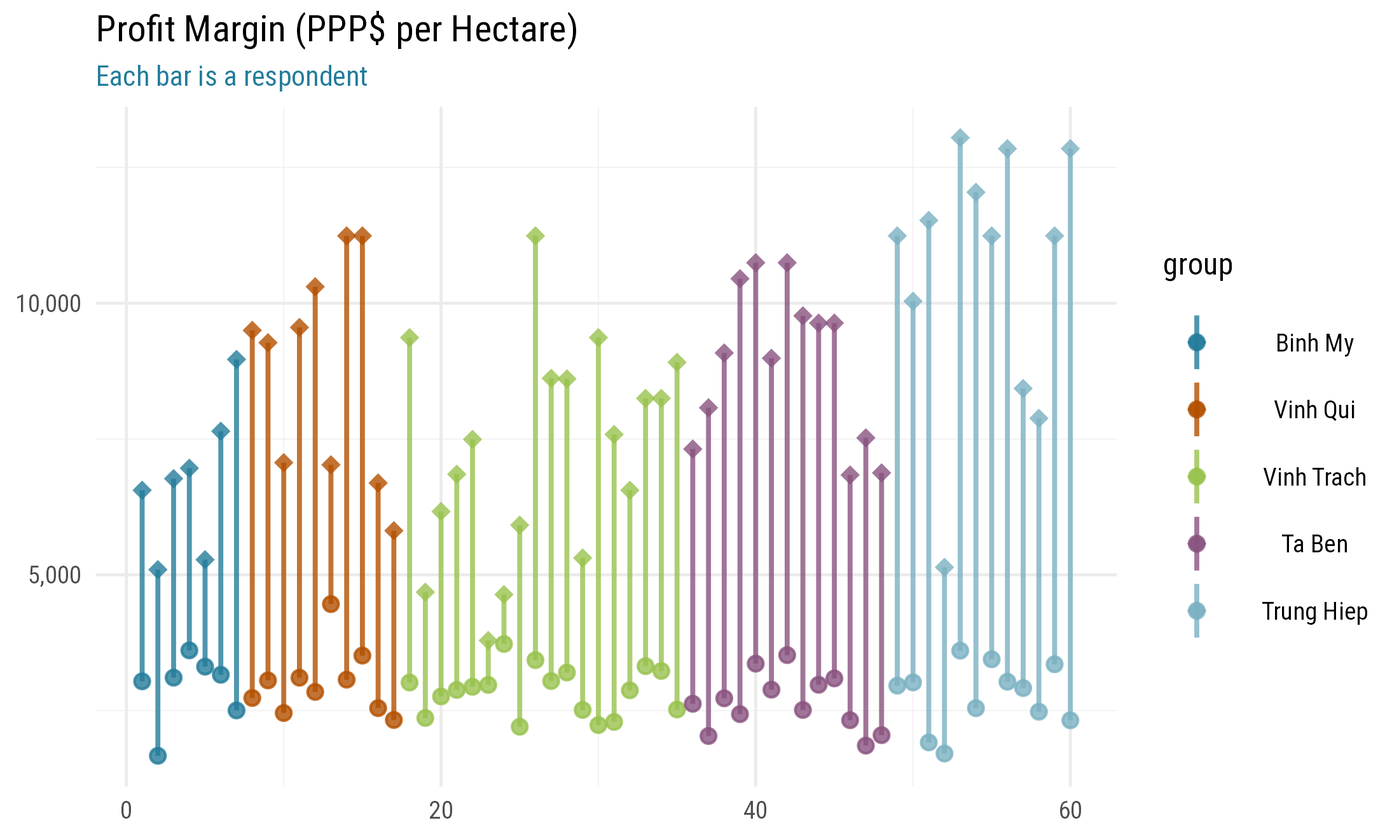
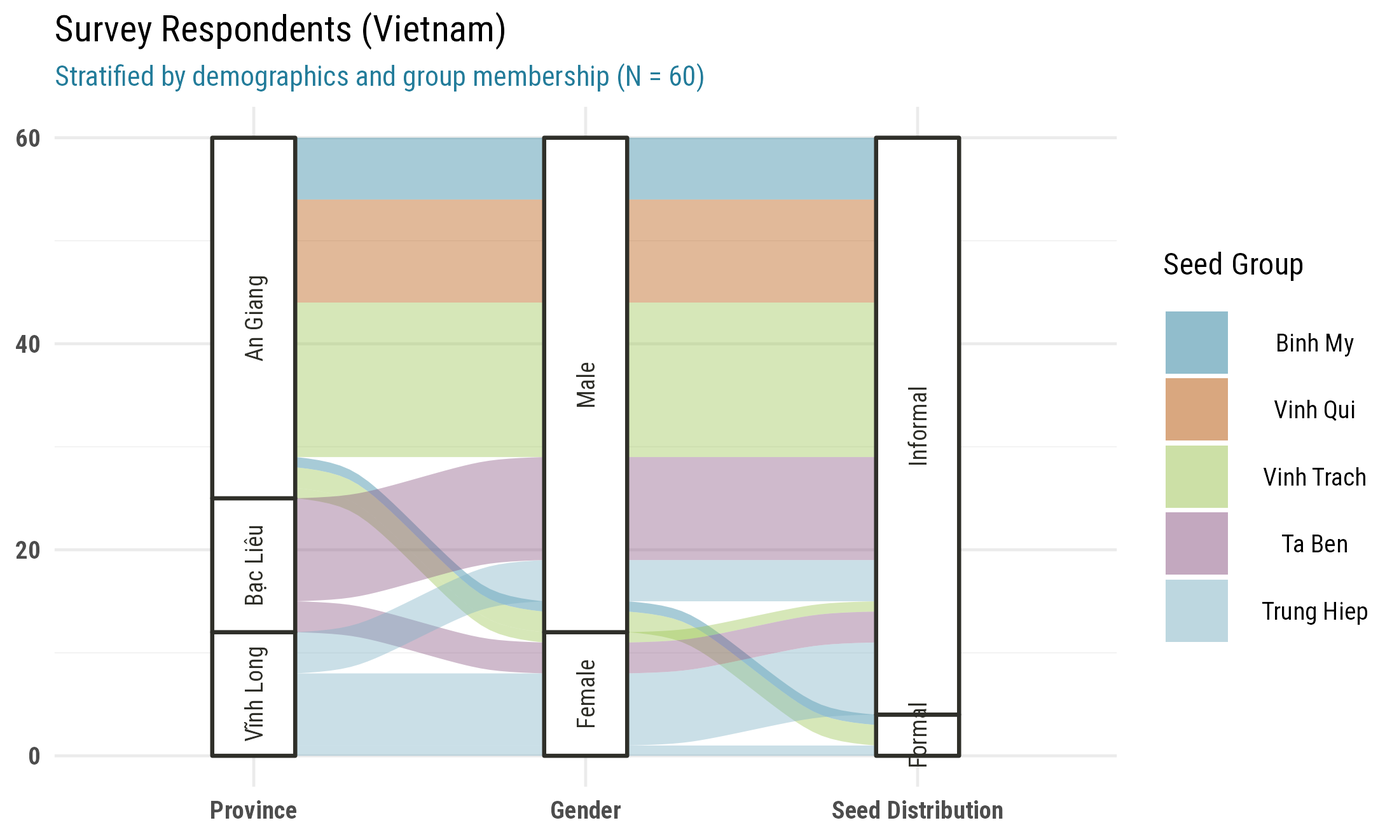
ftable

diff --git a/docs/01.html b/docs/01.html
@@ -618,7 +618,7 @@ TRUE
 </tr>
 <tr>
 <td style="text-align:left;">
-ssd_formal
+ssd
 </td>
 <td style="text-align:left;">
 Farmer participates in formal seed system distribution
@@ -841,7 +841,7 @@ TRUE
 </table>
 <p>Recode variable names.</p>
 <div class="sourceCode" id="cb4"><pre class="sourceCode r"><code class="sourceCode r"><span id="cb4-1"><a href="01.html#cb4-1" aria-hidden="true" tabindex="-1"></a><span class="fu">setnames</span>(hh, lbl<span class="sc">$</span>label, lbl<span class="sc">$</span>code, <span class="at">skip_absent=</span>T)</span></code></pre></div>
-<p>Additional recodes for categorical variables. Note that we create a categorical variable <code>ssd_formal</code> to indicate whether a farmer currently engages in formal seed system distribution.</p>
+<p>Additional recodes for categorical variables. Note that we create a categorical variable <code>ssd</code> to indicate whether a farmer currently engages in formal seed system distribution.</p>
 <div class="sourceCode" id="cb5"><pre class="sourceCode r"><code class="sourceCode r"><span id="cb5-1"><a href="01.html#cb5-1" aria-hidden="true" tabindex="-1"></a><span class="fu">setorder</span>(hh, adm1_nm, group, gender)</span>
 <span id="cb5-2"><a href="01.html#cb5-2" aria-hidden="true" tabindex="-1"></a></span>
 <span id="cb5-3"><a href="01.html#cb5-3" aria-hidden="true" tabindex="-1"></a>hh[, <span class="st">`</span><span class="at">:=</span><span class="st">`</span>(</span>
@@ -850,13 +850,13 @@ TRUE
 <span id="cb5-6"><a href="01.html#cb5-6" aria-hidden="true" tabindex="-1"></a>  <span class="at">adm1_nm =</span> <span class="fu">factor</span>(adm1_nm),</span>
 <span id="cb5-7"><a href="01.html#cb5-7" aria-hidden="true" tabindex="-1"></a>  <span class="at">group =</span> <span class="fu">factor</span>(group, <span class="at">levels=</span>hh[, <span class="fu">unique</span>(group)]),</span>
 <span id="cb5-8"><a href="01.html#cb5-8" aria-hidden="true" tabindex="-1"></a>  <span class="at">gender =</span> <span class="fu">factor</span>(gender, <span class="at">labels=</span><span class="fu">c</span>(<span class="at">Nam=</span><span class="st">&quot;Male&quot;</span>, Nữ<span class="ot">=</span><span class="st">&quot;Female&quot;</span>)),</span>
-<span id="cb5-9"><a href="01.html#cb5-9" aria-hidden="true" tabindex="-1"></a>  <span class="at">ssd_formal =</span> <span class="fu">factor</span>(cert_lcu <span class="sc">&gt;</span> <span class="dv">0</span>, <span class="at">labels=</span><span class="fu">c</span>(<span class="st">&quot;Informal&quot;</span>, <span class="st">&quot;Formal&quot;</span>))</span>
+<span id="cb5-9"><a href="01.html#cb5-9" aria-hidden="true" tabindex="-1"></a>  <span class="at">ssd =</span> <span class="fu">factor</span>(cert_lcu <span class="sc">&gt;</span> <span class="dv">0</span>, <span class="at">labels=</span><span class="fu">c</span>(<span class="st">&quot;Informal&quot;</span>, <span class="st">&quot;Formal&quot;</span>))</span>
 <span id="cb5-10"><a href="01.html#cb5-10" aria-hidden="true" tabindex="-1"></a>)]</span></code></pre></div>
 </div>
 <div id="data-enrichment" class="section level2">
 <h2>Data Enrichment</h2>
 <p>Below we append some of the information that was recorded at the group level.</p>
-<div class="sourceCode" id="cb6"><pre class="sourceCode r"><code class="sourceCode r"><span id="cb6-1"><a href="01.html#cb6-1" aria-hidden="true" tabindex="-1"></a><span class="fu">kbl</span>(group) <span class="sc">%&gt;%</span></span>
+<div class="sourceCode" id="cb6"><pre class="sourceCode r"><code class="sourceCode r"><span id="cb6-1"><a href="01.html#cb6-1" aria-hidden="true" tabindex="-1"></a><span class="fu">kbl</span>(group, <span class="at">align=</span><span class="st">&quot;lccccccc&quot;</span>) <span class="sc">%&gt;%</span></span>
 <span id="cb6-2"><a href="01.html#cb6-2" aria-hidden="true" tabindex="-1"></a>  <span class="fu">kable_def</span>()</span></code></pre></div>
 <table class="table table-condensed table-responsive table-striped table-hover" style="font-size: 14px; margin-left: auto; margin-right: auto;">
 <thead>
@@ -864,25 +864,25 @@ TRUE
 <th style="text-align:left;">
 Group
 </th>
-<th style="text-align:right;">
+<th style="text-align:center;">
 Established
 </th>
-<th style="text-align:right;">
+<th style="text-align:center;">
 Members
 </th>
-<th style="text-align:left;">
+<th style="text-align:center;">
 Soil
 </th>
-<th style="text-align:right;">
+<th style="text-align:center;">
 Seasons
 </th>
-<th style="text-align:left;">
+<th style="text-align:center;">
 Irrigation
 </th>
-<th style="text-align:left;">
+<th style="text-align:center;">
 Market access
 </th>
-<th style="text-align:left;">
+<th style="text-align:center;">
 Transboundary trade
 </th>
 </tr>
@@ -892,25 +892,25 @@ Transboundary trade
 <td style="text-align:left;">
 Ta Ben
 </td>
-<td style="text-align:right;">
+<td style="text-align:center;">
 2001
 </td>
-<td style="text-align:right;">
+<td style="text-align:center;">
 30
 </td>
-<td style="text-align:left;">
+<td style="text-align:center;">
 loamy
 </td>
-<td style="text-align:right;">
+<td style="text-align:center;">
 2.0
 </td>
-<td style="text-align:left;">
+<td style="text-align:center;">
 good
 </td>
-<td style="text-align:left;">
+<td style="text-align:center;">
 Vicinity to local market, good road to infrastructure
 </td>
-<td style="text-align:left;">
+<td style="text-align:center;">
 No
 </td>
 </tr>
@@ -918,25 +918,25 @@ No
 <td style="text-align:left;">
 Trung Hiep
 </td>
-<td style="text-align:right;">
+<td style="text-align:center;">
 2003
 </td>
-<td style="text-align:right;">
+<td style="text-align:center;">
 8
 </td>
-<td style="text-align:left;">
+<td style="text-align:center;">
 sandy-silty
 </td>
-<td style="text-align:right;">
+<td style="text-align:center;">
 2.5
 </td>
-<td style="text-align:left;">
+<td style="text-align:center;">
 good
 </td>
-<td style="text-align:left;">
+<td style="text-align:center;">
 Vicinity to local market, good road to infrastructure
 </td>
-<td style="text-align:left;">
+<td style="text-align:center;">
 No
 </td>
 </tr>
@@ -944,25 +944,25 @@ No
 <td style="text-align:left;">
 Vinh Trach
 </td>
-<td style="text-align:right;">
+<td style="text-align:center;">
 2004
 </td>
-<td style="text-align:right;">
+<td style="text-align:center;">
 15
 </td>
-<td style="text-align:left;">
+<td style="text-align:center;">
 clay
 </td>
-<td style="text-align:right;">
+<td style="text-align:center;">
 3.0
 </td>
-<td style="text-align:left;">
+<td style="text-align:center;">
 good
 </td>
-<td style="text-align:left;">
+<td style="text-align:center;">
 Vicinity to local market, good road to infrastructure
 </td>
-<td style="text-align:left;">
+<td style="text-align:center;">
 Yes
 </td>
 </tr>
@@ -970,25 +970,25 @@ Yes
 <td style="text-align:left;">
 Binh My
 </td>
-<td style="text-align:right;">
+<td style="text-align:center;">
 2004
 </td>
-<td style="text-align:right;">
+<td style="text-align:center;">
 8
 </td>
-<td style="text-align:left;">
+<td style="text-align:center;">
 clay
 </td>
-<td style="text-align:right;">
+<td style="text-align:center;">
 3.0
 </td>
-<td style="text-align:left;">
+<td style="text-align:center;">
 good
 </td>
-<td style="text-align:left;">
+<td style="text-align:center;">
 Vicinity to local market, good road to infrastructure
 </td>
-<td style="text-align:left;">
+<td style="text-align:center;">
 Yes
 </td>
 </tr>
@@ -996,25 +996,25 @@ Yes
 <td style="text-align:left;">
 Vinh Qui
 </td>
-<td style="text-align:right;">
+<td style="text-align:center;">
 2002
 </td>
-<td style="text-align:right;">
+<td style="text-align:center;">
 40
 </td>
-<td style="text-align:left;">
+<td style="text-align:center;">
 clay
 </td>
-<td style="text-align:right;">
+<td style="text-align:center;">
 3.0
 </td>
-<td style="text-align:left;">
+<td style="text-align:center;">
 good
 </td>
-<td style="text-align:left;">
+<td style="text-align:center;">
 Vicinity to local market, good road to infrastructure
 </td>
-<td style="text-align:left;">
+<td style="text-align:center;">
 Yes
 </td>
 </tr>
@@ -1065,8 +1065,8 @@ Yes
 <div class="sourceCode" id="cb10"><pre class="sourceCode r"><code class="sourceCode r"><span id="cb10-1"><a href="01.html#cb10-1" aria-hidden="true" tabindex="-1"></a>hh[, <span class="fu">summary</span>(sales_ha_lcu <span class="sc">-</span> (sales_kg_lcu <span class="sc">*</span> sales_ha_kg))]</span></code></pre></div>
 <pre><code>##    Min. 1st Qu.  Median    Mean 3rd Qu.    Max. 
 ##       0       0       0       0       0       0</code></pre>
-<p>Further we construct gross margin per ha <code>margin_ha_lcu</code>, total sales <code>sales_ha_sh</code> and profit margin <code>margin_ha_sh</code> as shares of total costs per hectare, and <code>costs_ha_ppp</code>, <code>sales_ha_ppp</code> and <code>margin_ha_ppp</code> in PPP terms to allow for comparisons across groups and countries.</p>
-<p>We also construct a measure of <strong>total factor productivity</strong> <code>tfp</code> as production over total costs per ha. Strictly speaking it is only “partial factor productivity” here because we don’t include the rental cost of land, land preparation costs, and the costs of animal and mechanical implements.</p>
+<p>Further we construct gross margin per ha <code>margin_ha_lcu</code>, total sales <code>sales_ha_sh</code> and profit margin <code>margin_ha_sh</code> per unit of (variable) input costs, and <code>costs_ha_ppp</code>, <code>sales_ha_ppp</code> and <code>margin_ha_ppp</code> in PPP terms to allow for comparisons across groups and countries.</p>
+<p>We also construct a measure of <strong>total factor productivity</strong> <code>tfp</code> as output per unit of input costs. Strictly speaking it is only “partial factor productivity” here because we don’t include the rental cost of land, land preparation costs, irrigation costs, and the costs of animal and mechanical implements.</p>
 <div class="sourceCode" id="cb12"><pre class="sourceCode r"><code class="sourceCode r"><span id="cb12-1"><a href="01.html#cb12-1" aria-hidden="true" tabindex="-1"></a>hh[, <span class="st">`</span><span class="at">:=</span><span class="st">`</span>(</span>
 <span id="cb12-2"><a href="01.html#cb12-2" aria-hidden="true" tabindex="-1"></a>  <span class="at">margin_ha_lcu =</span> sales_ha_lcu <span class="sc">-</span> costs_ha_lcu</span>
 <span id="cb12-3"><a href="01.html#cb12-3" aria-hidden="true" tabindex="-1"></a>)][, <span class="st">`</span><span class="at">:=</span><span class="st">`</span>(</span>
@@ -1098,26 +1098,49 @@ Yes
 <span id="cb13-17"><a href="01.html#cb13-17" aria-hidden="true" tabindex="-1"></a>  <span class="at">share =</span> lcu<span class="sc">/</span><span class="fu">sum</span>(lcu, <span class="at">na.rm=</span>T),</span>
 <span id="cb13-18"><a href="01.html#cb13-18" aria-hidden="true" tabindex="-1"></a>  <span class="at">ppp =</span> lcu<span class="sc">/</span>xrate</span>
 <span id="cb13-19"><a href="01.html#cb13-19" aria-hidden="true" tabindex="-1"></a>), by<span class="ot">=</span>hhid]</span></code></pre></div>
-<p>Note that in the current survey we are missing <strong>farm sizes</strong> (or planted acreage), so we can not directly study the effect of farm size on the per-unit costs of production and yields, or look at potential <strong>scale effects</strong> on <strong>efficiency</strong> and <strong>profitability</strong>. We can however study whether larger groups might have a positive effect on profits.</p>
+<p>Note that in the current survey we are missing <strong>farm sizes</strong> (or planted acreage), so we can not directly study the effect of farm size on the per-unit costs of production and yields, or look at potential <strong>scale effects</strong> on a farmer’s <strong>efficiency</strong> and <strong>profitability</strong>. We can however study whether larger groups might have positive effects.</p>
 </div>
 </div>
 <div id="descriptive-statistics" class="section level2">
 <h2>Descriptive Statistics</h2>
 <div id="respondent-characteristics" class="section level3">
 <h3>Respondent Characteristics</h3>
-<div class="sourceCode" id="cb14"><pre class="sourceCode r"><code class="sourceCode r"><span id="cb14-1"><a href="01.html#cb14-1" aria-hidden="true" tabindex="-1"></a><span class="fu">library</span>(ggalluvial)</span>
-<span id="cb14-2"><a href="01.html#cb14-2" aria-hidden="true" tabindex="-1"></a><span class="fu">ggplot</span>(</span>
-<span id="cb14-3"><a href="01.html#cb14-3" aria-hidden="true" tabindex="-1"></a>  hh[, .N, <span class="at">by=</span>.(adm1_nm, group, ssd_formal, gender)],</span>
-<span id="cb14-4"><a href="01.html#cb14-4" aria-hidden="true" tabindex="-1"></a>  <span class="fu">aes</span>(<span class="at">axis1=</span>adm1_nm, <span class="at">axis2=</span>gender, <span class="at">axis3=</span>ssd_formal, <span class="at">y=</span>N)) <span class="sc">+</span></span>
-<span id="cb14-5"><a href="01.html#cb14-5" aria-hidden="true" tabindex="-1"></a>  <span class="fu">geom_alluvium</span>(<span class="fu">aes</span>(<span class="at">fill=</span>group), <span class="at">width=</span><span class="dv">1</span><span class="sc">/</span><span class="dv">4</span>) <span class="sc">+</span></span>
-<span id="cb14-6"><a href="01.html#cb14-6" aria-hidden="true" tabindex="-1"></a>  <span class="fu">geom_stratum</span>(<span class="at">width=</span><span class="dv">1</span><span class="sc">/</span><span class="dv">4</span>) <span class="sc">+</span></span>
-<span id="cb14-7"><a href="01.html#cb14-7" aria-hidden="true" tabindex="-1"></a>  <span class="fu">geom_text</span>(<span class="at">stat=</span><span class="st">&quot;stratum&quot;</span>, <span class="fu">aes</span>(<span class="at">label=</span><span class="fu">after_stat</span>(stratum)), <span class="at">angle=</span><span class="dv">90</span>, <span class="at">size=</span><span class="fl">2.2</span>) <span class="sc">+</span></span>
-<span id="cb14-8"><a href="01.html#cb14-8" aria-hidden="true" tabindex="-1"></a>  <span class="fu">scale_x_discrete</span>(<span class="at">limits=</span><span class="fu">c</span>(<span class="st">&quot;Province&quot;</span>, <span class="st">&quot;Gender&quot;</span>, <span class="st">&quot;Seed Distribution&quot;</span>), <span class="at">expand=</span><span class="fu">c</span>(.<span class="dv">2</span>, .<span class="dv">05</span>)) <span class="sc">+</span></span>
-<span id="cb14-9"><a href="01.html#cb14-9" aria-hidden="true" tabindex="-1"></a>  <span class="fu">labs</span>(<span class="at">y=</span><span class="cn">NULL</span>, <span class="at">fill=</span><span class="st">&quot;Seed Group&quot;</span>,</span>
-<span id="cb14-10"><a href="01.html#cb14-10" aria-hidden="true" tabindex="-1"></a>    <span class="at">title =</span> <span class="st">&quot;Vietnam Survey Respondents&quot;</span>,</span>
-<span id="cb14-11"><a href="01.html#cb14-11" aria-hidden="true" tabindex="-1"></a>    <span class="at">sub =</span> <span class="st">&quot;Stratified by demographics and group membership&quot;</span>) <span class="sc">+</span></span>
-<span id="cb14-12"><a href="01.html#cb14-12" aria-hidden="true" tabindex="-1"></a>  <span class="fu">theme_def</span>(<span class="at">axis.text=</span><span class="fu">element_text</span>(<span class="at">face=</span><span class="st">&quot;bold&quot;</span>))</span></code></pre></div>
-<p><img src="fig/unnamed-chunk-10-1.png" width="1100" /></p>
+<div class="sourceCode" id="cb14"><pre class="sourceCode r"><code class="sourceCode r"><span id="cb14-1"><a href="01.html#cb14-1" aria-hidden="true" tabindex="-1"></a><span class="co"># Contingency table</span></span>
+<span id="cb14-2"><a href="01.html#cb14-2" aria-hidden="true" tabindex="-1"></a>tbl <span class="ot">&lt;-</span> hh[, .(<span class="at">Group=</span>group, <span class="at">Gender=</span>gender, <span class="st">`</span><span class="at">Seed System</span><span class="st">`</span><span class="ot">=</span>ssd)]</span>
+<span id="cb14-3"><a href="01.html#cb14-3" aria-hidden="true" tabindex="-1"></a><span class="fu">summary</span>(tbl)</span></code></pre></div>
+<pre><code>##         Group       Gender     Seed System
+##  Binh My   : 7   Male  :48   Informal:56  
+##  Vinh Qui  :10   Female:12   Formal  : 4  
+##  Vinh Trach:18                            
+##  Ta Ben    :13                            
+##  Trung Hiep:12</code></pre>
+<div class="sourceCode" id="cb16"><pre class="sourceCode r"><code class="sourceCode r"><span id="cb16-1"><a href="01.html#cb16-1" aria-hidden="true" tabindex="-1"></a>tbl <span class="ot">&lt;-</span> <span class="fu">xtabs</span>(<span class="sc">~</span>group<span class="sc">+</span>gender<span class="sc">+</span>ssd, hh)</span>
+<span id="cb16-2"><a href="01.html#cb16-2" aria-hidden="true" tabindex="-1"></a><span class="dv">100</span> <span class="sc">*</span> <span class="fu">ftable</span>(<span class="fu">prop.table</span>(tbl))</span></code></pre></div>
+<pre><code>##                   ssd  Informal    Formal
+## group      gender                        
+## Binh My    Male       10.000000  1.666667
+##            Female      0.000000  0.000000
+## Vinh Qui   Male       16.666667  0.000000
+##            Female      0.000000  0.000000
+## Vinh Trach Male       25.000000  3.333333
+##            Female      1.666667  0.000000
+## Ta Ben     Male       16.666667  0.000000
+##            Female      5.000000  0.000000
+## Trung Hiep Male        6.666667  0.000000
+##            Female     11.666667  1.666667</code></pre>
+<div class="sourceCode" id="cb18"><pre class="sourceCode r"><code class="sourceCode r"><span id="cb18-1"><a href="01.html#cb18-1" aria-hidden="true" tabindex="-1"></a><span class="fu">library</span>(ggalluvial)</span>
+<span id="cb18-2"><a href="01.html#cb18-2" aria-hidden="true" tabindex="-1"></a><span class="fu">ggplot</span>(</span>
+<span id="cb18-3"><a href="01.html#cb18-3" aria-hidden="true" tabindex="-1"></a>  hh[, .N, <span class="at">by=</span>.(adm1_nm, group, ssd, gender)],</span>
+<span id="cb18-4"><a href="01.html#cb18-4" aria-hidden="true" tabindex="-1"></a>  <span class="fu">aes</span>(<span class="at">axis1=</span>adm1_nm, <span class="at">axis2=</span>gender, <span class="at">axis3=</span>ssd, <span class="at">y=</span>N)) <span class="sc">+</span></span>
+<span id="cb18-5"><a href="01.html#cb18-5" aria-hidden="true" tabindex="-1"></a>  <span class="fu">geom_alluvium</span>(<span class="fu">aes</span>(<span class="at">fill=</span>group), <span class="at">width=</span><span class="dv">1</span><span class="sc">/</span><span class="dv">4</span>) <span class="sc">+</span></span>
+<span id="cb18-6"><a href="01.html#cb18-6" aria-hidden="true" tabindex="-1"></a>  <span class="fu">geom_stratum</span>(<span class="at">width=</span><span class="dv">1</span><span class="sc">/</span><span class="dv">4</span>) <span class="sc">+</span></span>
+<span id="cb18-7"><a href="01.html#cb18-7" aria-hidden="true" tabindex="-1"></a>  <span class="fu">geom_text</span>(<span class="at">stat=</span><span class="st">&quot;stratum&quot;</span>, <span class="fu">aes</span>(<span class="at">label=</span><span class="fu">after_stat</span>(stratum)), <span class="at">angle=</span><span class="dv">90</span>, <span class="at">size=</span><span class="fl">2.2</span>) <span class="sc">+</span></span>
+<span id="cb18-8"><a href="01.html#cb18-8" aria-hidden="true" tabindex="-1"></a>  <span class="fu">scale_x_discrete</span>(<span class="at">limits=</span><span class="fu">c</span>(<span class="st">&quot;Province&quot;</span>, <span class="st">&quot;Gender&quot;</span>, <span class="st">&quot;Seed Distribution&quot;</span>)) <span class="sc">+</span></span>
+<span id="cb18-9"><a href="01.html#cb18-9" aria-hidden="true" tabindex="-1"></a>  <span class="fu">labs</span>(<span class="at">y=</span><span class="cn">NULL</span>, <span class="at">fill=</span><span class="st">&quot;Seed Group&quot;</span>,</span>
+<span id="cb18-10"><a href="01.html#cb18-10" aria-hidden="true" tabindex="-1"></a>    <span class="at">title =</span> <span class="st">&quot;Survey Respondents (Vietnam)&quot;</span>,</span>
+<span id="cb18-11"><a href="01.html#cb18-11" aria-hidden="true" tabindex="-1"></a>    <span class="at">subtitle =</span> <span class="st">&quot;Stratified by demographics and group membership (N = 60)&quot;</span>) <span class="sc">+</span></span>
+<span id="cb18-12"><a href="01.html#cb18-12" aria-hidden="true" tabindex="-1"></a>  <span class="fu">theme_def</span>(<span class="at">axis.text=</span><span class="fu">element_text</span>(<span class="at">face=</span><span class="st">&quot;bold&quot;</span>))</span></code></pre></div>
+<p><img src="fig/unnamed-chunk-11-1.png" width="1100" /></p>
 </div>
 <div id="seed-production-costs" class="section level3">
 <h3>Seed Production Costs</h3>
@@ -1128,27 +1151,27 @@ Yes
 </div>
 <div id="profitability" class="section level3">
 <h3>Profitability</h3>
-<div class="sourceCode" id="cb15"><pre class="sourceCode r"><code class="sourceCode r"><span id="cb15-1"><a href="01.html#cb15-1" aria-hidden="true" tabindex="-1"></a><span class="fu">ggplot</span>(hh, <span class="fu">aes</span>(<span class="at">x=</span><span class="dv">1</span><span class="sc">:</span><span class="fu">nrow</span>(hh), <span class="at">color=</span>group)) <span class="sc">+</span></span>
-<span id="cb15-2"><a href="01.html#cb15-2" aria-hidden="true" tabindex="-1"></a>  <span class="fu">geom_linerange</span>(<span class="fu">aes</span>(<span class="at">ymin=</span>costs_ha_ppp, <span class="at">ymax=</span>sales_ha_ppp), <span class="at">size=</span>.<span class="dv">6</span>) <span class="sc">+</span></span>
-<span id="cb15-3"><a href="01.html#cb15-3" aria-hidden="true" tabindex="-1"></a>  <span class="fu">geom_point</span>(<span class="fu">aes</span>(<span class="at">y=</span>costs_ha_ppp)) <span class="sc">+</span></span>
-<span id="cb15-4"><a href="01.html#cb15-4" aria-hidden="true" tabindex="-1"></a>  <span class="fu">geom_point</span>(<span class="fu">aes</span>(<span class="at">y=</span>sales_ha_ppp), <span class="at">shape=</span><span class="dv">18</span>, <span class="at">size=</span><span class="dv">2</span>) <span class="sc">+</span></span>
-<span id="cb15-5"><a href="01.html#cb15-5" aria-hidden="true" tabindex="-1"></a>  <span class="fu">scale_y_continuous</span>(<span class="at">labels=</span>comma) <span class="sc">+</span></span>
-<span id="cb15-6"><a href="01.html#cb15-6" aria-hidden="true" tabindex="-1"></a>  <span class="fu">labs</span>(<span class="at">x=</span><span class="cn">NULL</span>, <span class="at">y=</span><span class="cn">NULL</span>, </span>
-<span id="cb15-7"><a href="01.html#cb15-7" aria-hidden="true" tabindex="-1"></a>    <span class="at">title=</span><span class="st">&quot;Profit Margin (PPP$ per Hectare)&quot;</span>,</span>
-<span id="cb15-8"><a href="01.html#cb15-8" aria-hidden="true" tabindex="-1"></a>    <span class="at">subtitle=</span><span class="st">&quot;Each bar is a respondent&quot;</span>) <span class="sc">+</span></span>
-<span id="cb15-9"><a href="01.html#cb15-9" aria-hidden="true" tabindex="-1"></a>  <span class="fu">theme_def</span>(<span class="at">legend.position=</span><span class="st">&quot;right&quot;</span>)</span></code></pre></div>
-<p><img src="fig/unnamed-chunk-11-1.png" width="1100" /></p>
-<div class="sourceCode" id="cb16"><pre class="sourceCode r"><code class="sourceCode r"><span id="cb16-1"><a href="01.html#cb16-1" aria-hidden="true" tabindex="-1"></a><span class="fu">ggplot</span>(hh, <span class="fu">aes</span>(<span class="at">x=</span>sales_ha_ppp<span class="sc">-</span>costs_ha_ppp, <span class="at">fill=</span>group)) <span class="sc">+</span></span>
-<span id="cb16-2"><a href="01.html#cb16-2" aria-hidden="true" tabindex="-1"></a>  <span class="fu">geom_histogram</span>(<span class="at">color=</span><span class="st">&quot;white&quot;</span>) <span class="sc">+</span> </span>
-<span id="cb16-3"><a href="01.html#cb16-3" aria-hidden="true" tabindex="-1"></a>  <span class="fu">scale_x_continuous</span>(<span class="at">labels=</span>comma) <span class="sc">+</span></span>
-<span id="cb16-4"><a href="01.html#cb16-4" aria-hidden="true" tabindex="-1"></a>  <span class="fu">facet_wrap</span>(<span class="st">&quot;group&quot;</span>) <span class="sc">+</span></span>
-<span id="cb16-5"><a href="01.html#cb16-5" aria-hidden="true" tabindex="-1"></a>  <span class="fu">labs</span>(<span class="at">x=</span><span class="cn">NULL</span>, <span class="at">y=</span><span class="cn">NULL</span>, </span>
-<span id="cb16-6"><a href="01.html#cb16-6" aria-hidden="true" tabindex="-1"></a>    <span class="at">title=</span><span class="st">&quot;Profit Margin (PPP$ per Hectare)&quot;</span>,</span>
-<span id="cb16-7"><a href="01.html#cb16-7" aria-hidden="true" tabindex="-1"></a>    <span class="at">subtitle=</span><span class="st">&quot;Each bar is a respondent&quot;</span>) <span class="sc">+</span></span>
-<span id="cb16-8"><a href="01.html#cb16-8" aria-hidden="true" tabindex="-1"></a>  <span class="fu">theme_def</span>()</span></code></pre></div>
-<p><img src="fig/unnamed-chunk-11-2.png" width="1100" /></p>
-<div class="sourceCode" id="cb17"><pre class="sourceCode r"><code class="sourceCode r"><span id="cb17-1"><a href="01.html#cb17-1" aria-hidden="true" tabindex="-1"></a><span class="fu">rm</span>(tmp, x, y, i)</span>
-<span id="cb17-2"><a href="01.html#cb17-2" aria-hidden="true" tabindex="-1"></a><span class="fu">save.image</span>(<span class="st">&quot;../tmp/data_vnm.RData&quot;</span>)</span></code></pre></div>
+<div class="sourceCode" id="cb19"><pre class="sourceCode r"><code class="sourceCode r"><span id="cb19-1"><a href="01.html#cb19-1" aria-hidden="true" tabindex="-1"></a><span class="fu">ggplot</span>(hh, <span class="fu">aes</span>(<span class="at">x=</span><span class="dv">1</span><span class="sc">:</span><span class="fu">nrow</span>(hh), <span class="at">color=</span>group)) <span class="sc">+</span></span>
+<span id="cb19-2"><a href="01.html#cb19-2" aria-hidden="true" tabindex="-1"></a>  <span class="fu">geom_linerange</span>(<span class="fu">aes</span>(<span class="at">ymin=</span>costs_ha_ppp, <span class="at">ymax=</span>sales_ha_ppp), <span class="at">size=</span>.<span class="dv">6</span>) <span class="sc">+</span></span>
+<span id="cb19-3"><a href="01.html#cb19-3" aria-hidden="true" tabindex="-1"></a>  <span class="fu">geom_point</span>(<span class="fu">aes</span>(<span class="at">y=</span>costs_ha_ppp)) <span class="sc">+</span></span>
+<span id="cb19-4"><a href="01.html#cb19-4" aria-hidden="true" tabindex="-1"></a>  <span class="fu">geom_point</span>(<span class="fu">aes</span>(<span class="at">y=</span>sales_ha_ppp), <span class="at">shape=</span><span class="dv">18</span>, <span class="at">size=</span><span class="dv">2</span>) <span class="sc">+</span></span>
+<span id="cb19-5"><a href="01.html#cb19-5" aria-hidden="true" tabindex="-1"></a>  <span class="fu">scale_y_continuous</span>(<span class="at">labels=</span>comma) <span class="sc">+</span></span>
+<span id="cb19-6"><a href="01.html#cb19-6" aria-hidden="true" tabindex="-1"></a>  <span class="fu">labs</span>(<span class="at">x=</span><span class="cn">NULL</span>, <span class="at">y=</span><span class="cn">NULL</span>, </span>
+<span id="cb19-7"><a href="01.html#cb19-7" aria-hidden="true" tabindex="-1"></a>    <span class="at">title=</span><span class="st">&quot;Profit Margin (PPP$ per Hectare)&quot;</span>,</span>
+<span id="cb19-8"><a href="01.html#cb19-8" aria-hidden="true" tabindex="-1"></a>    <span class="at">subtitle=</span><span class="st">&quot;Each bar is a respondent&quot;</span>) <span class="sc">+</span></span>
+<span id="cb19-9"><a href="01.html#cb19-9" aria-hidden="true" tabindex="-1"></a>  <span class="fu">theme_def</span>(<span class="at">legend.position=</span><span class="st">&quot;right&quot;</span>)</span></code></pre></div>
+<p><img src="fig/unnamed-chunk-12-1.png" width="1100" /></p>
+<div class="sourceCode" id="cb20"><pre class="sourceCode r"><code class="sourceCode r"><span id="cb20-1"><a href="01.html#cb20-1" aria-hidden="true" tabindex="-1"></a><span class="fu">ggplot</span>(hh, <span class="fu">aes</span>(<span class="at">x=</span>sales_ha_ppp<span class="sc">-</span>costs_ha_ppp, <span class="at">fill=</span>group)) <span class="sc">+</span></span>
+<span id="cb20-2"><a href="01.html#cb20-2" aria-hidden="true" tabindex="-1"></a>  <span class="fu">geom_histogram</span>(<span class="at">color=</span><span class="st">&quot;white&quot;</span>) <span class="sc">+</span> </span>
+<span id="cb20-3"><a href="01.html#cb20-3" aria-hidden="true" tabindex="-1"></a>  <span class="fu">scale_x_continuous</span>(<span class="at">labels=</span>comma) <span class="sc">+</span></span>
+<span id="cb20-4"><a href="01.html#cb20-4" aria-hidden="true" tabindex="-1"></a>  <span class="fu">facet_wrap</span>(<span class="st">&quot;group&quot;</span>) <span class="sc">+</span></span>
+<span id="cb20-5"><a href="01.html#cb20-5" aria-hidden="true" tabindex="-1"></a>  <span class="fu">labs</span>(<span class="at">x=</span><span class="cn">NULL</span>, <span class="at">y=</span><span class="cn">NULL</span>, </span>
+<span id="cb20-6"><a href="01.html#cb20-6" aria-hidden="true" tabindex="-1"></a>    <span class="at">title=</span><span class="st">&quot;Profit Margin (PPP$ per Hectare)&quot;</span>,</span>
+<span id="cb20-7"><a href="01.html#cb20-7" aria-hidden="true" tabindex="-1"></a>    <span class="at">subtitle=</span><span class="st">&quot;Each bar is a respondent&quot;</span>) <span class="sc">+</span></span>
+<span id="cb20-8"><a href="01.html#cb20-8" aria-hidden="true" tabindex="-1"></a>  <span class="fu">theme_def</span>()</span></code></pre></div>
+<p><img src="fig/unnamed-chunk-12-2.png" width="1100" /></p>
+<div class="sourceCode" id="cb21"><pre class="sourceCode r"><code class="sourceCode r"><span id="cb21-1"><a href="01.html#cb21-1" aria-hidden="true" tabindex="-1"></a><span class="fu">rm</span>(tmp, x, y, i)</span>
+<span id="cb21-2"><a href="01.html#cb21-2" aria-hidden="true" tabindex="-1"></a><span class="fu">save.image</span>(<span class="st">&quot;../tmp/data_vnm.RData&quot;</span>)</span></code></pre></div>
 
 </div>
 </div>

diff --git a/docs/index.html b/docs/index.html
@@ -180,7 +180,7 @@ code span.wa { color: #60a0b0; font-weight: bold; font-style: italic; } /* Warni
 <div id="header">
 <h1 class="title">Supporting Seed Systems for Development</h1>
 <p class="author"><em>BACOU, Melanie</em></p>
-<p class="date" style="margin-top: 1.5em;"><em>Last updated on 2021-07-01 – CODES AND NOTES</em></p>
+<p class="date" style="margin-top: 1.5em;"><em>Last updated on 2021-07-02 – CODES AND NOTES</em></p>
 </div>
 <div id="objectives" class="section level1">
 <h1>Objectives</h1>
